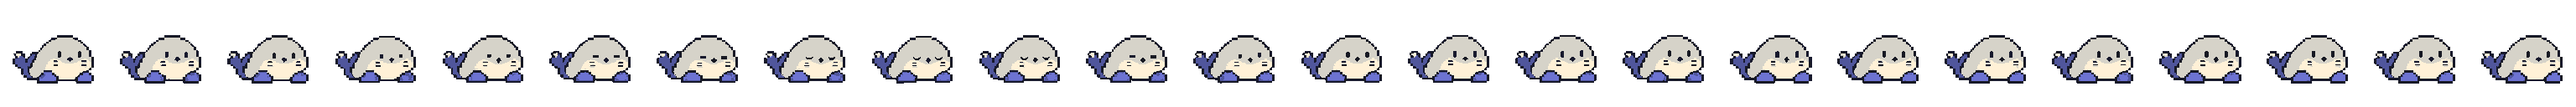
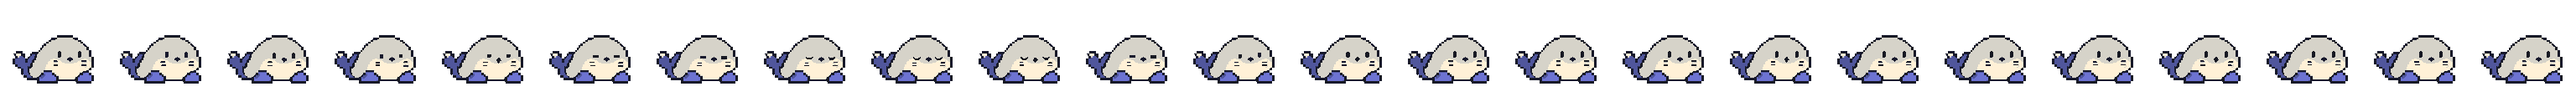
fix(brand): hold Moru's body still while the waiting mark blinks
The source art redraws the whole figure in every pose, and each pose is
registered to the neutral body on its own. In the blink, where only the
face moves, that made the outline, tail and flippers crawl by a pixel
from cell to cell: at 64px between 36 and 106 pixels changed per step,
328 pixels took more than one value over the clip, and the right flipper
kept changing its shading. The blink is the waiting mark, so this was
the Moru motion people see most.

A clip that declares restingBody now keeps its first pose in every pose
between the first and the last, and only a facial mark that changed is
redrawn in the place of the mark it replaces. At 64px the steps now
change 0 to 36 pixels (1,649 in total before, 272 after), all inside the
face, and 71 pixels ever change. Marks the pose lost to its outline and
marks the first pose never had no longer flicker.

WebP folds a pose identical to the one before it into that pose's delay,
so the catalogue test now checks its playing time instead of its page
count; GIF keeps every page.

diff --git a/docs/design/brand.md b/docs/design/brand.md
@@ -133,6 +133,16 @@ identically. A mark takes the place within one pixel that covers and touches
 the least other ink; where the face is too crowded for a clear place, it may
 touch.
 
+The source redraws the whole figure in every pose, so a clip in which only the
+face moves showed its outline, tail and flippers crawling by a pixel from pose
+to pose. A clip that declares `restingBody` in `moru-source.json` (today
+`blink`, the waiting mark) keeps its first pose in every pose between the first
+and the last. Each facial mark of a pose claims the nearest mark of the first
+pose within one and a half drawn pixels, one each: a mark that is the same
+drawing within half a drawn pixel stays the first pose's own, a mark that
+changed is redrawn in its place, and a mark that claims nothing is source
+noise. A mark the pose lost to its outline stays as the first pose drew it.
+
 Outline ink is 1.14:1 on the app canvas and reads only beside a fill, so ink
 drawn away from every fill (a note, a fishing line, an emphasis tick) is
 exported in indigo `#6D73D2`, and a detached piece smaller than four drawn
@@ -267,8 +277,8 @@ The repository [license](../../LICENSE) remains unchanged.
   compass fan-out, binary templates and exact installed motion rows.
 - `build-moru-sprites.test.mjs` covers the observed eye/ivory regressions,
   identical level eyes at both sizes, the floor line of every grounded clip,
-  the cleaning, reduction, facial-mark and free-ink rules, a nonempty clip
-  inventory, frame count, hard alpha, margins and loop seams.
+  the cleaning, reduction, facial-mark, resting-body and free-ink rules, a
+  nonempty clip inventory, frame count, hard alpha, margins and loop seams.
 - `mascot-state.test.ts`, `AgentMascotPresence.test.tsx` and waiting-mark tests
   cover evidence, Stop, visibility, reduced motion and finite work behavior. Companion tests cover independent decorative play and pause/resume.
 - Motion approval additionally requires a real recording through
